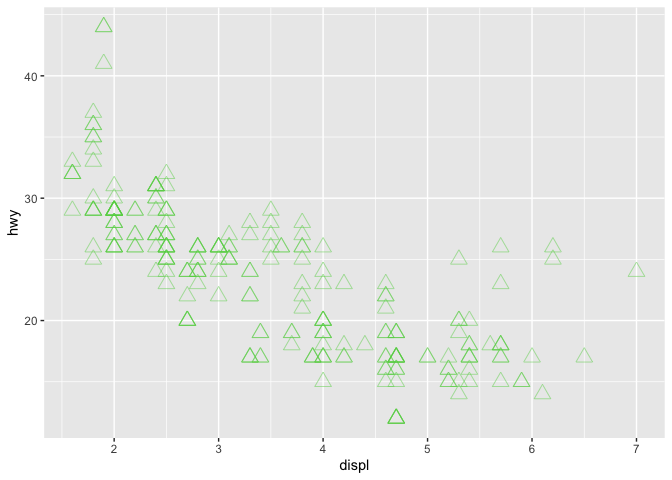
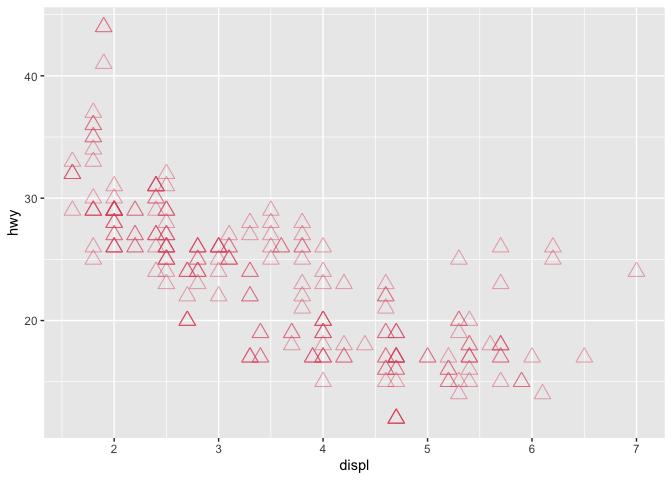
Updated bar chart to correct color

diff --git a/week-4-visualize-exercises.md b/week-4-visualize-exercises.md
@@ -81,7 +81,7 @@ Experiment.
 
 ``` r
 ggplot(data = mpg) +
-  geom_point(mapping = aes(x = displ, y = hwy), color = 3, size = 4, alpha = 0.5, shape = 2)
+  geom_point(mapping = aes(x = displ, y = hwy), color = 2, size = 4, alpha = 0.5, shape = 2)
 ```
 
 ![](week-4-visualize-exercises_files/figure-commonmark/Adding%20color,%20size,%20alpha%20and%20shape%20to%20hist.-1.png)
@@ -130,7 +130,7 @@ Make a bar chart `class` colored by `class`. Use the help page for
 
 ``` r
 ggplot(data = mpg) +
-  geom_bar(mapping = aes(x = class), color = 5)
+  geom_bar(mapping = aes(x = class, color = class))
 ```
 
 ![](week-4-visualize-exercises_files/figure-commonmark/Bar%20Chart-1.png)
